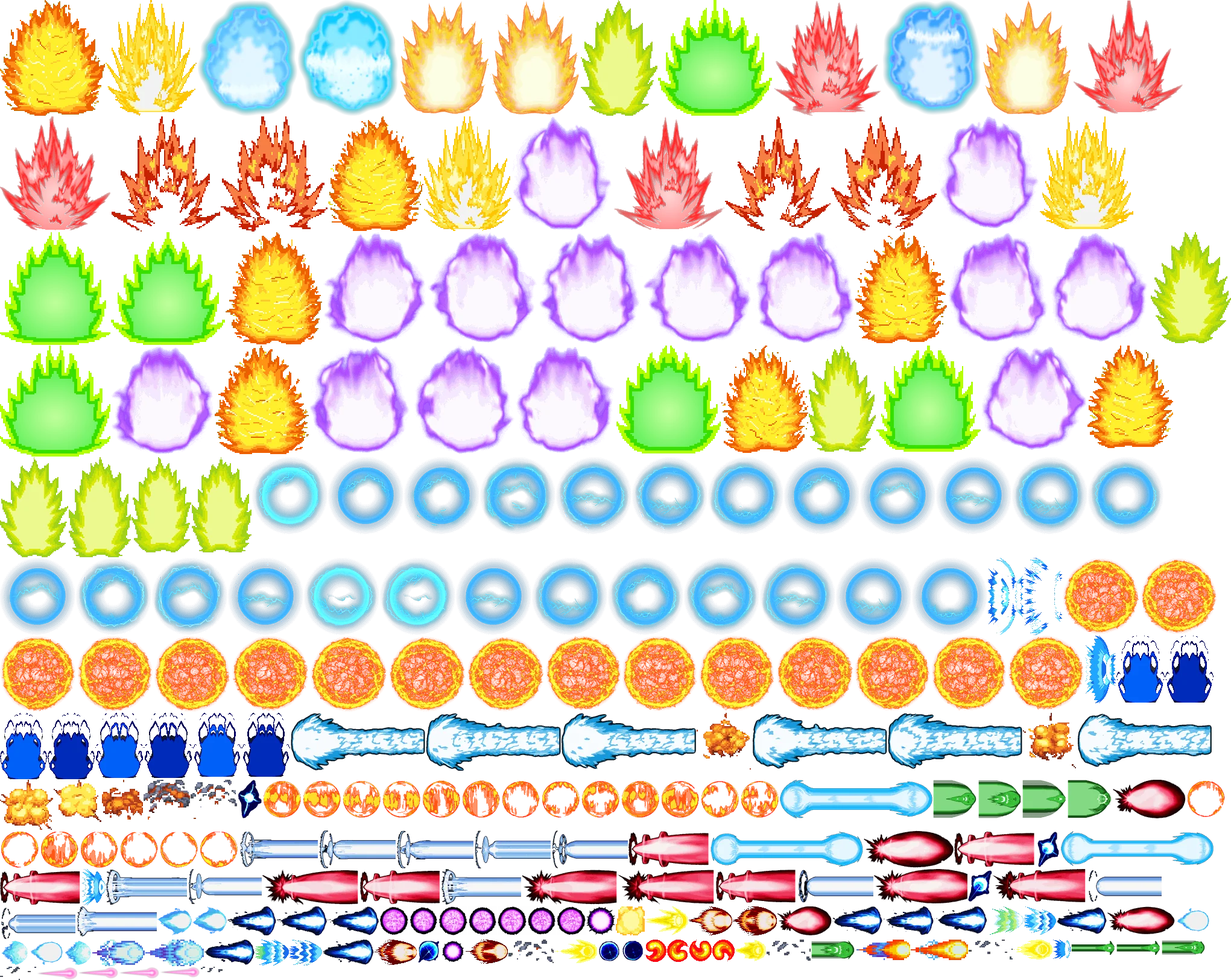
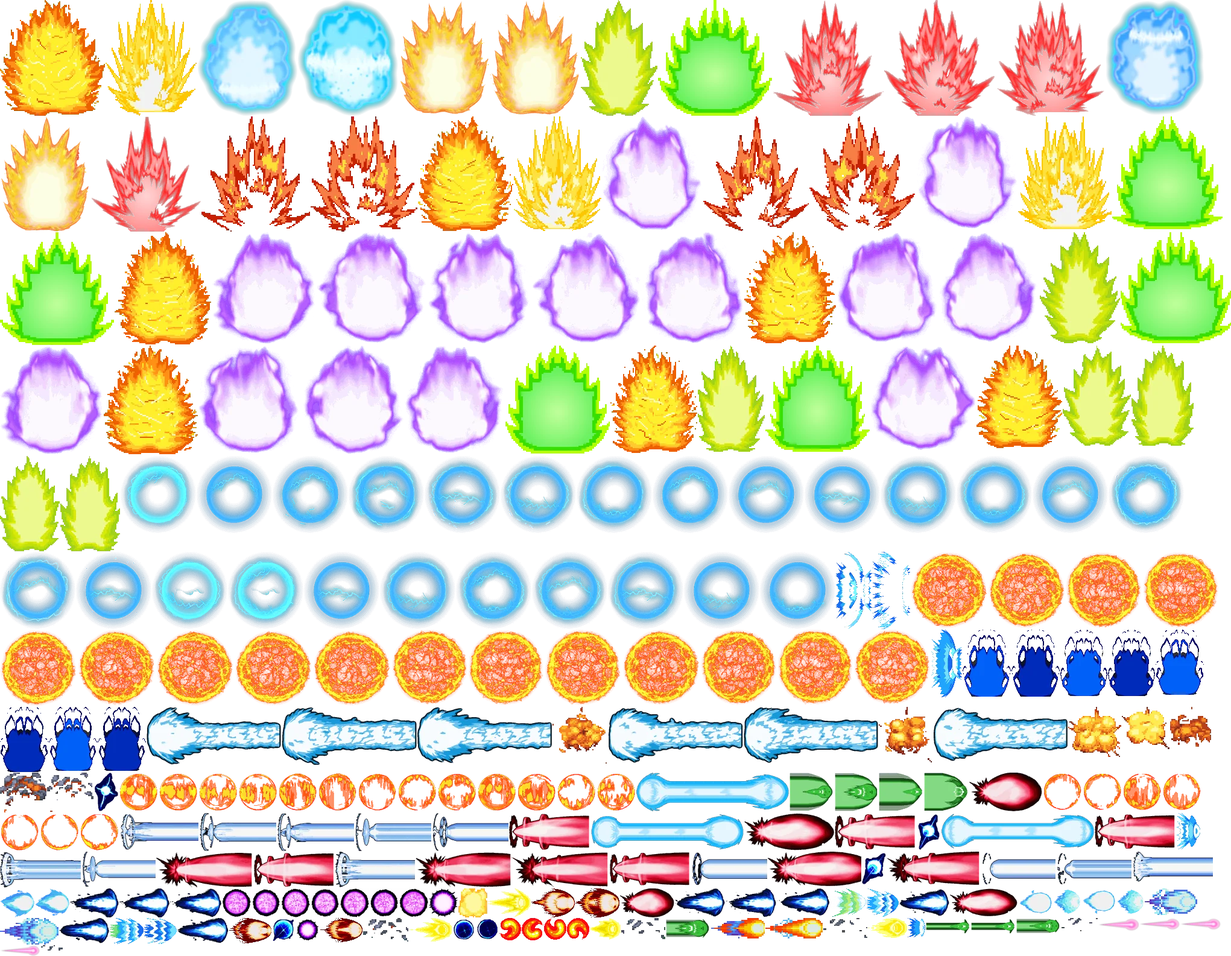
Aura vermelha: miolo só do contorno para dentro (lado de fora achado a partir da borda do quadro)
Claude-Session: https://claude.ai/code/session_01QkbtJoCpGHcYGXCafKsAMX

diff --git a/novo/scripts/preencher-aura.py b/novo/scripts/preencher-aura.py
@@ -1,44 +1,22 @@
 #!/usr/bin/env python3
-"""Preenche o miolo vazio de uma tira de aura (v0.154: as vermelhas tinham buracos entre as labaredas; a verde
-forte só tinha o contorno). Em cada linha do quadro, o vão entre a primeira labareda da esquerda e a da direita (a partir
-do centro, e só onde há desenho acima) ganha a cor da própria aura, mais clara no centro, abaixo das pontas (TOPO). Nada é pintado fora do contorno; o desenho original fica igual
-por cima. Depois: scripts/gerar-efeitos.py.
+"""Preenche o miolo vazio de uma tira de aura (v0.154: as vermelhas tinham o centro vazio; a verde forte só tinha o
+contorno). Só é pintado o que fica DO CONTORNO PARA DENTRO: o lado de fora é tudo o que se alcança a partir da borda do
+quadro sem atravessar o desenho (com os vãos estreitos entre as labaredas fechados por um disco de raio FECHA; depois o
+lado de fora volta a crescer FECHA+1 px por onde não há desenho, então nada passa do contorno). A base da aura é
+aberta (os pés): embaixo, só conta como fora o que está além de BASE da largura a partir do centro. O miolo ganha a cor
+da própria aura, mais clara no centro; o desenho original fica igual. Depois: scripts/gerar-efeitos.py.
 
-    python3 scripts/preencher-aura.py aura_vermelha 4 184 192 "255,190,190"
-    (--manter 3 --de <png já preenchido>: copia esses quadros do png em vez de refazer)
+    python3 scripts/preencher-aura.py aura_vermelha 4 184 192 "255,190,190" [--manter 3 --de <png já preenchido>]
+    (--manter: esses quadros são copiados do png de --de em vez de refeitos)
 """
 import sys
-from collections import deque
 
 import numpy as np
 from scipy import ndimage
-from PIL import Image, ImageFilter
+from PIL import Image
 
-TOPO = 0.18       # o miolo começa abaixo das pontas das labaredas (fração da altura)
-LARGURA = 0.30    # meia-largura do miolo na base, em fração da largura da aura
-BAIXO = 0.12      # v0.154b: perto da base o miolo fecha arredondado (não vaza entre as pontas que abrem para os lados)
-
-
-def _fora(m: np.ndarray) -> np.ndarray:
-    """o que é alcançável a partir da borda do quadro sem atravessar `m`"""
-    h, w = m.shape
-    ext = np.zeros_like(m)
-    q = deque()
-    for x in range(w):
-        for y in (0, h - 1):
-            if not m[y, x] and not ext[y, x]:
-                ext[y, x] = True; q.append((y, x))
-    for y in range(h):
-        for x in (0, w - 1):
-            if not m[y, x] and not ext[y, x]:
-                ext[y, x] = True; q.append((y, x))
-    while q:
-        y, x = q.popleft()
-        for dy, dx in ((1, 0), (-1, 0), (0, 1), (0, -1)):
-            yy, xx = y + dy, x + dx
-            if 0 <= yy < h and 0 <= xx < w and not m[yy, xx] and not ext[yy, xx]:
-                ext[yy, xx] = True; q.append((yy, xx))
-    return ext
+FECHA = 6     # raio (px) que fecha os vãos entre as labaredas na hora de achar o lado de fora
+BASE = 0.26   # meia-largura da base aberta, em fração da largura da aura
 
 
 def preencher(fr: Image.Image, claro) -> Image.Image:
@@ -47,40 +25,28 @@ def preencher(fr: Image.Image, claro) -> Image.Image:
     ys, xs = np.nonzero(m)
     if not len(ys):
         return fr
-    # o miolo: em cada linha, do centro até a primeira labareda de cada lado (as duas precisam existir) e só onde
-    # há desenho acima na mesma coluna (não vaza para cima, entre as pontas) — nada fora do contorno
     h, w = m.shape
-    cx = int(round((xs.min() + xs.max()) / 2))
-    # paredes = só o contorno principal (o maior pedaço ligado); pedacinhos soltos no meio não param o preenchimento
-    rot, n = ndimage.label(ndimage.binary_dilation(m, iterations=2))
-    paredes = m & (rot == (np.argmax(np.bincount(rot.ravel())[1:]) + 1)) if n else m
-    acima = np.maximum.accumulate(paredes, axis=0)
-    topo = ys.min() + (ys.max() - ys.min()) * TOPO
-    # 1) dentro das bordas EXTERNAS da aura em cada linha (as labaredas de dentro ficam desenhadas por cima)
-    dentro = np.zeros_like(m)
-    for y in range(int(topo), ys.max() + 1):
-        c = np.nonzero(paredes[y])[0]
-        if len(c) >= 2:
-            dentro[y, c.min():c.max() + 1] = True
-    # 2) um miolo arredondado (mais fino em cima): não entra nos vãos entre as pontas dos lados
-    yy, xx = np.mgrid[0:h, 0:w]
-    alt = ys.max() - topo
-    t = np.clip((yy - topo) / max(1, alt), 0, 1)
-    meia = (xs.max() - xs.min()) * LARGURA * np.sqrt(np.clip(t * (2.2 - t), 0, 1.21))
-    miolo = (yy >= topo) & (np.abs(xx - cx) <= meia)
-    fundo = ys.max() - (ys.max() - ys.min()) * BAIXO
-    meia_base = (xs.max() - xs.min()) * LARGURA
-    curva = fundo + (ys.max() - fundo) * np.sqrt(np.clip(1 - ((xx - cx) / max(1, meia_base)) ** 2, 0, 1))
-    miolo &= yy <= curva
-    vazio = dentro & miolo & acima & ~m
-    vy, vx = np.nonzero(vazio)
-    if len(vy):
-        forte = a[..., 3] > 200
-        cor = np.median(a[forte][:, :3], axis=0) if forte.any() else np.array(claro, np.float32)
-        cy, cx = ys.mean() + (ys.max() - ys.mean()) * 0.3, (xs.min() + xs.max()) / 2
-        r = np.clip(np.hypot((vy - cy) / max(1, np.ptp(ys) / 2), (vx - cx) / max(1, np.ptp(xs) / 2)), 0, 1)
-        a[vy, vx, :3] = np.array(claro)[None, :] * (1 - r[:, None]) + cor[None, :] * r[:, None]
-        a[vy, vx, 3] = 170 + 60 * r
+    cx = (xs.min() + xs.max()) / 2
+    yy, xx = np.mgrid[-FECHA:FECHA + 1, -FECHA:FECHA + 1]
+    paredes = ndimage.binary_dilation(m, structure=xx ** 2 + yy ** 2 <= FECHA ** 2)
+    sementes = np.zeros_like(m)
+    sementes[0, :] = sementes[:, 0] = sementes[:, -1] = True
+    sementes[-1, :] = np.abs(np.arange(w) - cx) > (xs.max() - xs.min()) * BASE
+    rot, _ = ndimage.label(~paredes)
+    fora = np.isin(rot, list(set(np.unique(rot[sementes & ~paredes])) - {0}))
+    fora = ndimage.binary_dilation(fora, iterations=FECHA + 1, mask=~m)
+    miolo = ~m & ~fora
+    rot, n = ndimage.label(miolo)
+    if not n:
+        return fr
+    miolo = rot == (np.argmax(np.bincount(rot.ravel())[1:]) + 1)  # só o miolo grande
+    vy, vx = np.nonzero(miolo)
+    forte = a[..., 3] > 200
+    cor = np.median(a[forte][:, :3], axis=0) if forte.any() else np.array(claro, np.float32)
+    cy = ys.mean() + (ys.max() - ys.mean()) * 0.3
+    r = np.clip(np.hypot((vy - cy) / max(1, np.ptp(ys) / 2), (vx - cx) / max(1, np.ptp(xs) / 2)), 0, 1)
+    a[vy, vx, :3] = np.array(claro)[None, :] * (1 - r[:, None]) + cor[None, :] * r[:, None]
+    a[vy, vx, 3] = 170 + 60 * r
     return Image.fromarray(a.astype(np.uint8), 'RGBA')
 
 
@@ -89,15 +55,12 @@ def main() -> None:
     claro = [int(v) for v in sys.argv[5].split(',')]
     caminho = f'fontes/efeitos/{nome}.png'
     im = Image.open(caminho).convert('RGBA')
-    # quadros que já estão certos e ficam como estão (ex.: "--manter 3")
     manter = {int(v) for v in sys.argv[sys.argv.index('--manter') + 1].split(',')} if '--manter' in sys.argv else set()
-    atual = Image.open(sys.argv[sys.argv.index('--de') + 1]).convert('RGBA') if '--de' in sys.argv else im
+    pronto = Image.open(sys.argv[sys.argv.index('--de') + 1]).convert('RGBA') if '--de' in sys.argv else im
     out = Image.new('RGBA', im.size, (0, 0, 0, 0))
     for i in range(n):
-        if i in manter:
-            out.alpha_composite(atual.crop((i * w, 0, (i + 1) * w, h)), (i * w, 0))
-            continue
-        out.alpha_composite(preencher(im.crop((i * w, 0, (i + 1) * w, h)), claro), (i * w, 0))
+        q = (i * w, 0, (i + 1) * w, h)
+        out.alpha_composite(pronto.crop(q) if i in manter else preencher(im.crop(q), claro), (i * w, 0))
     out.save(caminho)
     print(f'{nome}: {n} quadros preenchidos')
 
